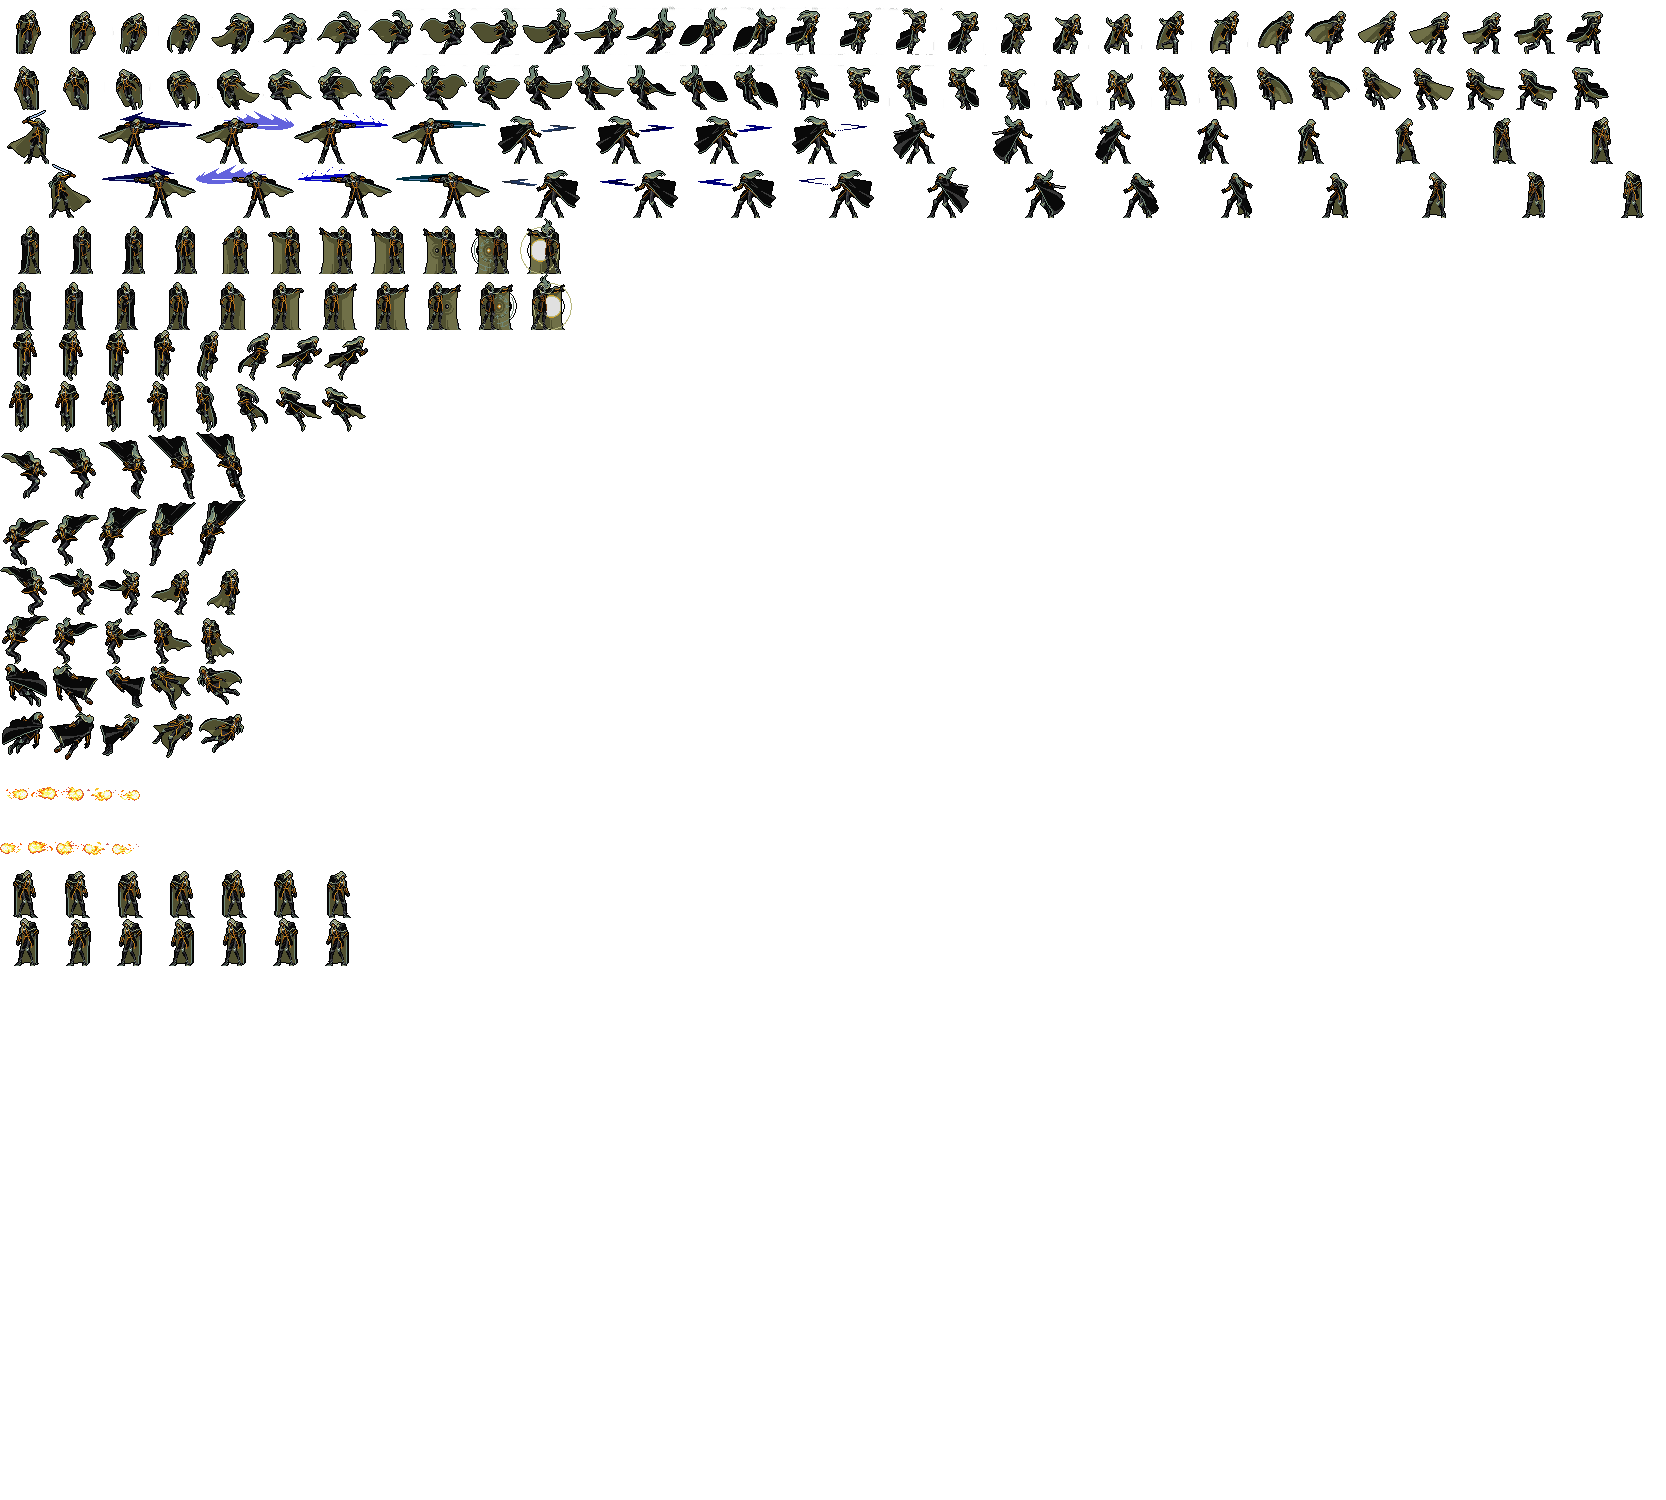
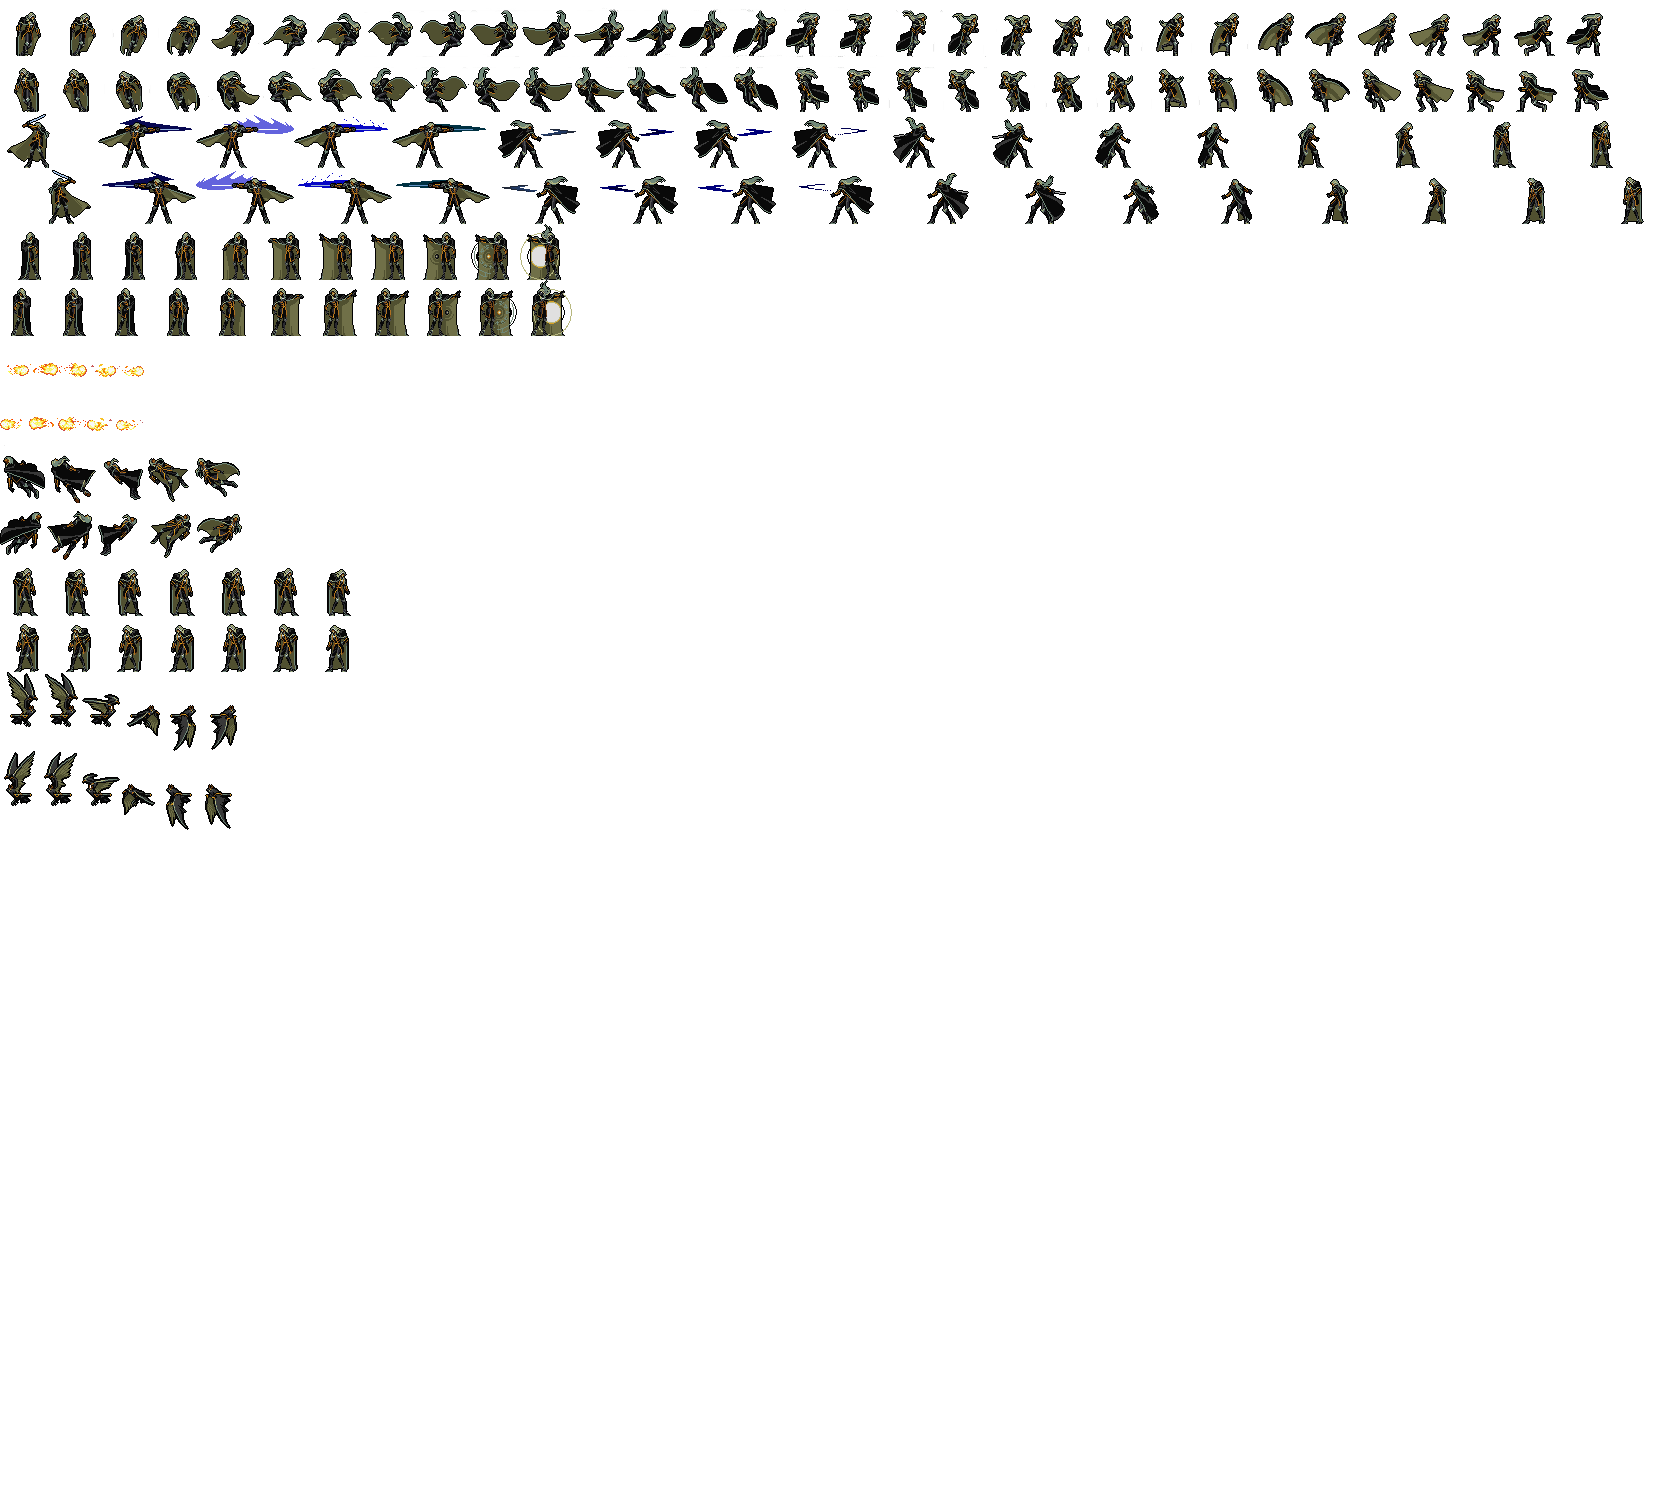
flyMode

Changed region(s): [[0.0, 0.0, 0.9676, 0.644], [0.9676, 0.1227, 0.9988, 0.1533], [0.9052, 0.1227, 0.9364, 0.1533]]

diff --git a/src/SDLGame.c b/src/SDLGame.c
@@ -28,7 +28,7 @@ void initSDL(SdlGame *pSdlGame)
 	pSdlGame->choiceSpeech = 2.0;
 	initDialogue(&(pSdlGame->pTree)); /*Initialisation de l'arbre de dialogue*/
 	
-	
+	pSdlGame->flyMode =0;
 	
 	
 	affichageArborescent((pSdlGame->pTree));
@@ -105,11 +105,6 @@ pSdlGame -> surfaceGrass = IMG_Load("data/image/grass4.png");
 	if (pSdlGame->surfaceGrass==NULL)	
 		pSdlGame->surfaceGrass = IMG_Load("../data/image/grass4.png");
 	assert( pSdlGame->surfaceGrass!=NULL);
-	
-pSdlGame -> surfaceFireBall = IMG_Load("data/image/fireBall.png");
-	if (pSdlGame->surfaceFireBall==NULL)	
-		pSdlGame->surfaceFireBall = IMG_Load("../data/image/fireBall.png");
-	assert( pSdlGame->surfaceFireBall!=NULL);
 
 pSdlGame -> surfaceLife = IMG_Load("data/image/lifeGauge.png");
 	if (pSdlGame->surfaceLife==NULL)	
@@ -305,9 +300,9 @@ pSdlGame ->surfaceKing = IMG_Load("data/image/king.png");
 /*Initialisation des sprites*/
 	pSdlGame->pSprites.source = pSdlGame -> surfaceChar; /*incrementation du sprite global*/
 	/*Cour vers la droite*/
-	InitSprite (&(pSdlGame->pSprites),right, 52, 54, 31, 15);	
+	InitSprite (&(pSdlGame->pSprites),right, 52, 56, 31, 15);	
 	/*Cour vers la gauche*/
-	InitSprite (&(pSdlGame->pSprites),left, 52, 54, 31, 15);
+	InitSprite (&(pSdlGame->pSprites),left, 52, 56, 31, 15);
 	/*attaque epee droite*/
 	InitSprite (&(pSdlGame->pSprites),attackR, 98, 56, 17, 0);
 	/*attaque epee gauche*/
@@ -316,24 +311,25 @@ pSdlGame ->surfaceKing = IMG_Load("data/image/king.png");
 	InitSprite (&(pSdlGame->pSprites),attackFR, 52, 56, 11, 0);
 	/*attaque feu gauche*/
 	InitSprite (&(pSdlGame->pSprites),attackFL, 52, 56, 11, 0);
-	/*Attend droite*/
-	InitSprite (&(pSdlGame->pSprites),stayR, 52, 54, 7, 0);
-	/*Attend gauche*/
-	InitSprite (&(pSdlGame->pSprites),stayL, 52, 54, 7, 0);
-	/*KO droit*/
-	InitSprite (&(pSdlGame->pSprites),KOR, 52, 45, 5, 5);
-	/*KO gauche*/
-	InitSprite (&(pSdlGame->pSprites),KOL, 52, 45, 5, 0);
-	/*Saut droite up*/
-	/*InitSprite (&(pSdlGame->pSprites),jumpUpR, 54, 55, 8, 8);*/
-	/*Saut droite down*/
-	/*InitSprite (&(pSdlGame->pSprites),jumpDownR, 52, 50, 8, 8);*/
-	
-	pSdlGame->pSpritesObject.source = pSdlGame -> surfaceFireBall; /*incrementation du sprite global*/
 	/*boule de feu droit*/
-	InitSprite (&(pSdlGame->pSpritesObject),0, 30, 56, 5, 0);
+	InitSprite (&(pSdlGame->pSprites),fireBallR, 30, 56, 5, 0);
 	/*boule de feu gauche*/
-	InitSprite (&(pSdlGame->pSpritesObject),1, 30, 56, 5, 0);
+	InitSprite (&(pSdlGame->pSprites),fireBallL, 30, 56, 5, 0);
+	/*Attend droite*/
+	InitSprite (&(pSdlGame->pSprites),stayR, 52, 56, 7, 0);
+	/*Attend gauche*/
+	InitSprite (&(pSdlGame->pSprites),stayL, 52, 56, 7, 0);
+	/*KO droit*/
+	InitSprite (&(pSdlGame->pSprites),KOR, 52, 56, 5, 5);
+	/*KO gauche*/
+	InitSprite (&(pSdlGame->pSprites),KOL, 52, 56, 5, 0);
+	/*fly droit*/
+	InitSprite (&(pSdlGame->pSprites),flyR, 40, 56, 6, 0);
+	/*fly gauche*/
+	InitSprite (&(pSdlGame->pSprites),flyL, 40, 58, 6, 0);
+
+	
+
 	
 	
 
@@ -380,7 +376,7 @@ void sdlDisplay(SdlGame *pSdlGame)
 	int i,j, k;
 	int xmin,xmax,ymin,ymax;
 	SDL_Rect positionTile;
-	
+	printf("POSITION_Sprite = %d\n", pSdlGame -> pSprites.position);
 	Game *pGame = &(pSdlGame->pGame);
 	Character *pChar= getGameChar(pGame);
 	Character *pPnj= getGamePnj(pGame);
@@ -404,7 +400,7 @@ if(pSdlGame -> choiceMenu == 1 && pSdlGame ->confirmMenu==1)
 	posiFireBall.x = pSdlGame->pGame.gObjects.oObject[1].oPosi.x*TAILLE_SPRITE- pSdlGame->scrollX;
 	posiFireBall.y = pSdlGame->pGame.gObjects.oObject[1].oPosi.y*TAILLE_SPRITE- pSdlGame->scrollY;
 	
-	displaySprite(&(pSdlGame->pSpritesObject), posiFireBall, pSdlGame->surfaceScreen);
+	displaySprite(&(pSdlGame->pSprites), posiFireBall, pSdlGame->surfaceScreen);
 	
 	for(k=0; k<pSdlGame -> pGame.gEnemies.number; k++)
 	{
@@ -875,14 +871,13 @@ void keyManagment(SdlGame *pSdlGame)
 {
 	int i;
 
-			
 		if(pSdlGame->pGame.gChar.projection == 0 && pSdlGame->pGame.gChar.attack ==0 && pSdlGame->pGame.gChar.superAttack == 0)
 		{
 			
 			if(pSdlGame->pKey.kLeft==1)
 			{
 
-				if(pSdlGame->pGame.gChar.attack == 0 && pSdlGame->pGame.gChar.superAttack == 0)
+				if(pSdlGame->pGame.gChar.attack == 0 && pSdlGame->pGame.gChar.superAttack == 0 && pSdlGame->flyMode == 0)
 				{
 					animSprite (&(pSdlGame->pSprites), left, 0, pSdlGame->pGame.gChar.cPosi.direction);
 				}
@@ -893,8 +888,9 @@ void keyManagment(SdlGame *pSdlGame)
 			{
 				
 
-				if(pSdlGame->pGame.gChar.attack == 0 && pSdlGame->pGame.gChar.superAttack == 0)
+				if(pSdlGame->pGame.gChar.attack == 0 && pSdlGame->pGame.gChar.superAttack == 0 && pSdlGame->flyMode == 0)
 				{
+					
 					animSprite (&(pSdlGame->pSprites), right, 0, pSdlGame->pGame.gChar.cPosi.direction);
 				}
 				controlKey(&(pSdlGame->pGame), 'd');
@@ -919,13 +915,14 @@ void keyManagment(SdlGame *pSdlGame)
 					{
 						animSprite (&(pSdlGame->pSprites), jumpDownR, 1, pSdlGame->pGame.gChar.cPosi.direction);
 					}
-				}	
+			}	
 			
 		}*/
 		
 		}
 
-	
+	 if(pSdlGame->flyMode == 0)
+	 {
 			if (pSdlGame->pKey.kCtrlR == 1)
 			{  
 				pSdlGame->pGame.gChar.attack =1;
@@ -966,18 +963,18 @@ void keyManagment(SdlGame *pSdlGame)
 				tempA=1;
 			}
 			
-			if(tempA = 1)
+			if(tempA == 1)
 			{
 				if (pSdlGame->pSprites.direction == 0)
 				{
 					
-					animSprite (&(pSdlGame->pSpritesObject), fireBallR, 0, pSdlGame->pGame.gChar.cPosi.direction);
+					animSprite (&(pSdlGame->pSprites), fireBallR, 0, pSdlGame->pGame.gChar.cPosi.direction);
 					
 				}
 				if (pSdlGame->pSprites.direction == 1)
 				{
 					
-					animSprite (&(pSdlGame->pSpritesObject), fireBallL, 0, pSdlGame->pGame.gChar.cPosi.direction);
+					animSprite (&(pSdlGame->pSprites), fireBallL, 0, pSdlGame->pGame.gChar.cPosi.direction);
 					
 				}
 			}
@@ -1027,14 +1024,25 @@ void keyManagment(SdlGame *pSdlGame)
 			pSdlGame->pGame.gChar.projection=0;
 		}
 	*/	
+	}
 	if (pSdlGame->pKey.kCtrlL == 1)
 	{
-			
+			pSdlGame->flyMode=1;
 			controlKey(&(pSdlGame->pGame), 'o');
+			if (pSdlGame->pGame.gChar.cPosi.direction == 0)
+			{
+				animSprite (&(pSdlGame->pSprites), flyR, 0, pSdlGame->pGame.gChar.cPosi.direction);
+			}
+			if (pSdlGame->pGame.gChar.cPosi.direction == 1)
+			{
+				animSprite (&(pSdlGame->pSprites), flyL, 0, pSdlGame->pGame.gChar.cPosi.direction);
+			}
+			
 			
 	}
 	if (pSdlGame->pKey.kCtrlL == 0)
 	{
+			pSdlGame->flyMode=0;
 			controlKey(&(pSdlGame->pGame), 'n');
 	}
 	if (pSdlGame->pKey.kUp ==1 && pSdlGame->pKey.kCtrlL == 1)
@@ -1319,7 +1327,10 @@ void loopSDL(SdlGame *pSdlGame)
 
 while(continueLoop == 1)
 {	
-	dialogueAction(pSdlGame,continueLoop);	
+	if (pSdlGame->dialogue == 1)
+	{
+		dialogueAction(pSdlGame,continueLoop);	
+	}
 	//printf("LOOP \n");
 	
 	if (pSdlGame ->confirmMenu !=1)
@@ -1674,11 +1685,12 @@ if(pGame -> level != 1)
 			}
 			else if (pSdlGame->choiceSpeech == 2.0 && pSdlGame->dialogue == 1)
 			{
+				
 				dialogueSpeak(pSdlGame,pSdlGame->choiceSpeech);
 				pSdlGame->dialogue = 2;
 				pSdlGame->confirmDialogue = 0;
 			}
-
+printf("DIALOGUE = %d\n",pSdlGame->dialogue);
 			
 			
 			if(collision(&(pChar->cPosi), &(pPnj->cPosi))==1 && pSdlGame->dialogue != 2)

diff --git a/src/SDLGame.h b/src/SDLGame.h
@@ -17,15 +17,15 @@
 #define attackL		3
 #define attackFR	4
 #define attackFL	5
-#define jumpUpR 	6
-#define jumpDownR	7
+#define fireBallR	6
+#define fireBallL	7
+#define KOR			8
+#define KOL			9
+#define stayR 		10
+#define stayL 		11
+#define flyR 		12
+#define flyL 		13
 
-#define KOR			12
-#define KOL			13
-#define fireBallR	0
-#define fireBallL	1
-#define stayR 		16
-#define stayL 		17
 
 
 
@@ -51,7 +51,6 @@ typedef struct
 {
 	Game pGame;
 	Sprites pSprites;
-	Sprites pSpritesObject;
 	Sprites *pSpritesEnemy;
 	Sprites pSpritesWorldMap;
 	Key pKey;
@@ -62,6 +61,8 @@ typedef struct
 	int confirmDialogue;
 	int dialogue;
 	float choiceSpeech;
+	int flyMode;
+
 
 /*Menu*/
 	SDL_Surface *surfaceStart;

diff --git a/src/Animation.c b/src/Animation.c
@@ -17,7 +17,7 @@ void InitSprite (Sprites *pSprites,int id, int w,int h, int nbFrame, int reFrame
 	pSprites->aSprite[id].reFrame = reFrame;
 	pSprites->aSprite[id].end=1;
 	pSprites->frame = 0;
-	pSprites->position = 16;
+	pSprites->position = 10;
 	pSprites->clockPrevious =0.0;
 
 }
